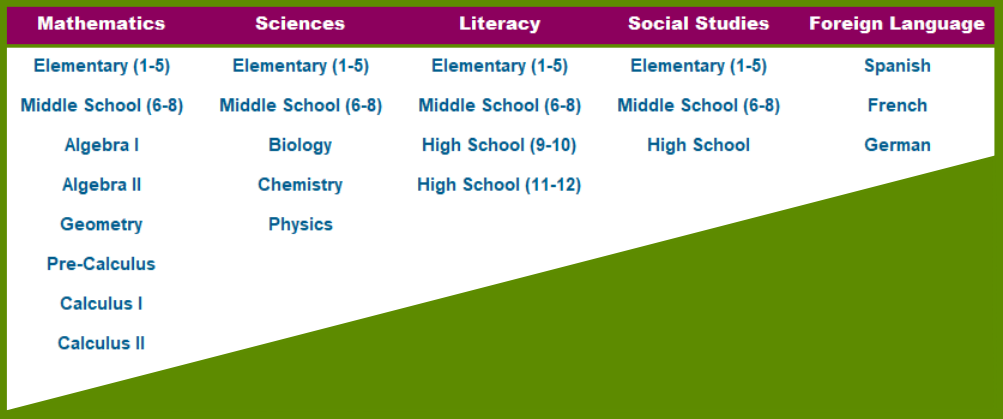
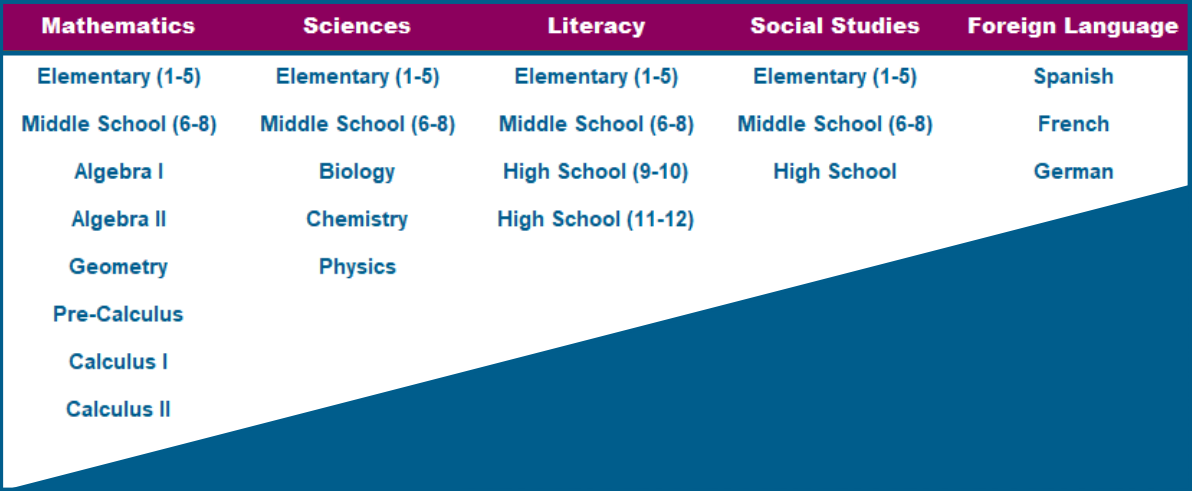
updated picture, cleaned style of arrow

diff --git a/resources/react-frontend/src/App.css b/resources/react-frontend/src/App.css
@@ -145,8 +145,8 @@ html, body {
 }
 
 .arrow {
-  border: solid black;
-  border-width: 0 3px 3px 0;
+  border: solid #005D8c;
+  border-width: 0 2px 2px 0;
   display: inline-block;
   padding: 3px;
 }

diff --git a/resources/react-frontend/src/components/header/Header.css b/resources/react-frontend/src/components/header/Header.css
@@ -102,7 +102,7 @@ a { /* gotta override bootstrap here */
 }
 
 .DropDownContent a:hover {
-  background-color: #ddd;
+  background-color: #b4c7e7;
 }
 
 .DropDown:hover .DropDownContent {
